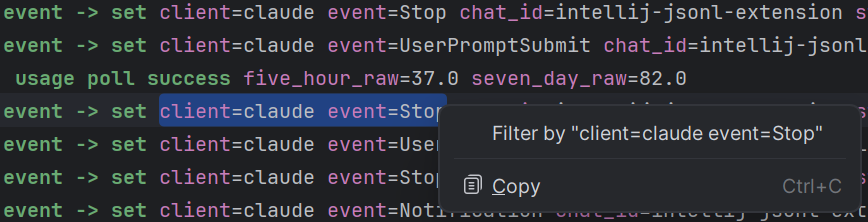
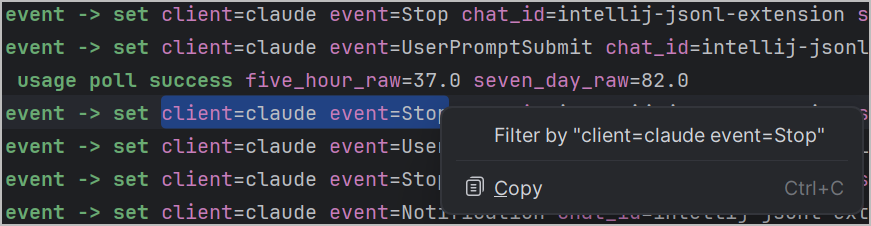
docs(screenshots): re-capture and frame every shot
The hero now shows a synthetic session rather than a real one.

diff --git a/docs/pages/usage/settings.md b/docs/pages/usage/settings.md
@@ -25,7 +25,7 @@ All gear-popup toggles and the Settings page share state, so flipping any toggle
 
 **File → Settings → Tools → JSONL Log Viewer**
 
-<a href="../../screenshots/settings.png"><img src="../../screenshots/settings.png" alt="JSONL Log Viewer settings page" width="900"></a>
+<a href="../../screenshots/settings.png"><img src="../../screenshots/settings.png" alt="JSONL Log Viewer settings page" width="1000"></a>
 
 ### Formatted view
 
@@ -49,6 +49,24 @@ Alignment cascade:
 | **Targets** | pads severity label so targets line up |
 | **Messages** | above + pads target block so messages line up |
 | **Fields** | above + pads message text so first `key=value` lines up |
+
+The same entries under each level, with **Soft wrap formatted text** on:
+
+**None**
+
+<a href="../../screenshots/align-none.png"><img src="../../screenshots/align-none.png" alt="Formatted log lines with no padding, so targets and messages start at ragged columns" width="900"></a>
+
+**Targets**
+
+<a href="../../screenshots/align-targets.png"><img src="../../screenshots/align-targets.png" alt="Formatted log lines with the severity label padded, so every target starts in one column" width="900"></a>
+
+**Messages**
+
+<a href="../../screenshots/align-messages.png"><img src="../../screenshots/align-messages.png" alt="Formatted log lines with the target block padded too, so every message starts in one column" width="900"></a>
+
+**Fields**
+
+<a href="../../screenshots/align-fields.png"><img src="../../screenshots/align-fields.png" alt="Formatted log lines with the message padded too, so the first key=value starts in one column and wrapped lines continue under it" width="900"></a>
 
 All padding widths are computed from the **filtered subset** so alignment stays tight regardless of what's currently visible.
 

diff --git a/docs/pages/usage/inspect-overlay.md b/docs/pages/usage/inspect-overlay.md
@@ -9,6 +9,8 @@ When the right panel is set to Inspect, the left pane fills the editor full-widt
 
 The overlay's chrome lives in the top-right corner: a corner-toggle (↓ / ↑) flips the anchor between top-right and bottom-right, and a close button (×) hides the overlay (equivalent to the toolbar's "Right panel: Off"). Clicking the toolbar's **Inspect** button while it's already selected also flips the corner.
 
+<a href="../../screenshots/inspect-overlay.png"><img src="../../screenshots/inspect-overlay.png" alt="Inspect overlay anchored top-right over the formatted pane, showing the pretty-printed JSON of the caret line, the corner toggle and close button at its top-right, and the resize grip at its bottom-left" width="800"></a>
+
 The free corner of the overlay (bottom-left when anchored top, top-left when anchored bottom) carries a resize grip — drag it diagonally to grow or shrink the overlay. When **Auto-resize inspect height** is on, the height is owned by the overlay (it auto-fits the current entry), so the corner grip is hidden and the overlay's left edge becomes a width-only resize handle instead. Size and corner are persisted across sessions.
 
 The line-index ↔ raw-line mapping works correctly across filters: if you filter to 8 `ERROR` entries out of 500 lines, clicking on "Formatted line 3" shows the pretty JSON of the 3rd matching entry — not raw line 3.

diff --git a/docs/pages/usage.md b/docs/pages/usage.md
@@ -7,7 +7,7 @@ has_children: true
 
 The JSONL Log Viewer plugin adds a two-pane split editor for every `.jsonl` file you open in any IntelliJ-based IDE. The left pane shows human-readable formatted log lines, the right pane inspects the JSON of the entry at the caret, and a toolbar on top gives you pane selectors, filters, and live stats.
 
-<a href="../screenshots/main-large.png"><img src="../screenshots/main-large.png" alt="Split editor with formatted log lines on the left and JSON inspector on the right" width="1000"></a>
+<a href="../screenshots/main-large.png"><img src="../screenshots/main-large.png" alt="Formatted log lines with the Inspect overlay in the top-right corner showing the caret line's JSON" width="1000"></a>
 
 ## Installation
 

diff --git a/docs/index.md b/docs/index.md
@@ -6,7 +6,7 @@ nav_order: 1
 
 *A plugin for every IntelliJ-based IDE (IDEA, PyCharm, WebStorm, Rider, GoLand, CLion, DataGrip, RubyMine, RustRover, PhpStorm) that renders `.jsonl` (JSON-per-line) structured log files in human-readable form, with highly customizable visualization and a range of filters.*
 
-<a href="screenshots/main-large.png"><img src="screenshots/main-large.png" alt="Split editor with formatted log lines on the left and JSON inspector on the right" width="1000"></a>
+<a href="screenshots/main-large.png"><img src="screenshots/main-large.png" alt="Formatted log lines with the Inspect overlay in the top-right corner showing the caret line's JSON" width="1000"></a>
 
 ## Example
 

diff --git a/docs/pages/usage/editor-layout.md b/docs/pages/usage/editor-layout.md
@@ -18,6 +18,8 @@ The editor is a two-pane split. Each pane independently shows one of:
 
 Defaults: **Left = Formatted, Right = Inspect**. Both sides remember your last choice per `.jsonl` file, with a fallback to the last-used-anywhere.
 
+<a href="../../screenshots/raw-formatted.png"><img src="../../screenshots/raw-formatted.png" alt="Editor with raw JSON lines in the left pane and the same entries formatted in the right pane" width="1000"></a>
+
 Pick a side's pane using the icon buttons in the toolbar:
 
 ![Pane selector toolbar](../../screenshots/toolbar-panels.png)

diff --git a/README.md b/README.md
@@ -2,7 +2,7 @@
 
 *A plugin for every IntelliJ-based IDE (IDEA, PyCharm, WebStorm, Rider, GoLand, CLion, DataGrip, RubyMine, RustRover, PhpStorm) that renders `.jsonl` (JSON-per-line) structured log files in human-readable form, with highly customizable visualization and a range of filters.*
 
-![Split editor with formatted log lines on the left and JSON inspector on the right](docs/screenshots/main-large.png)
+![Formatted log lines with the Inspect overlay in the top-right corner showing the caret line's JSON](docs/screenshots/main-large.png)
 
 ## Features
 
